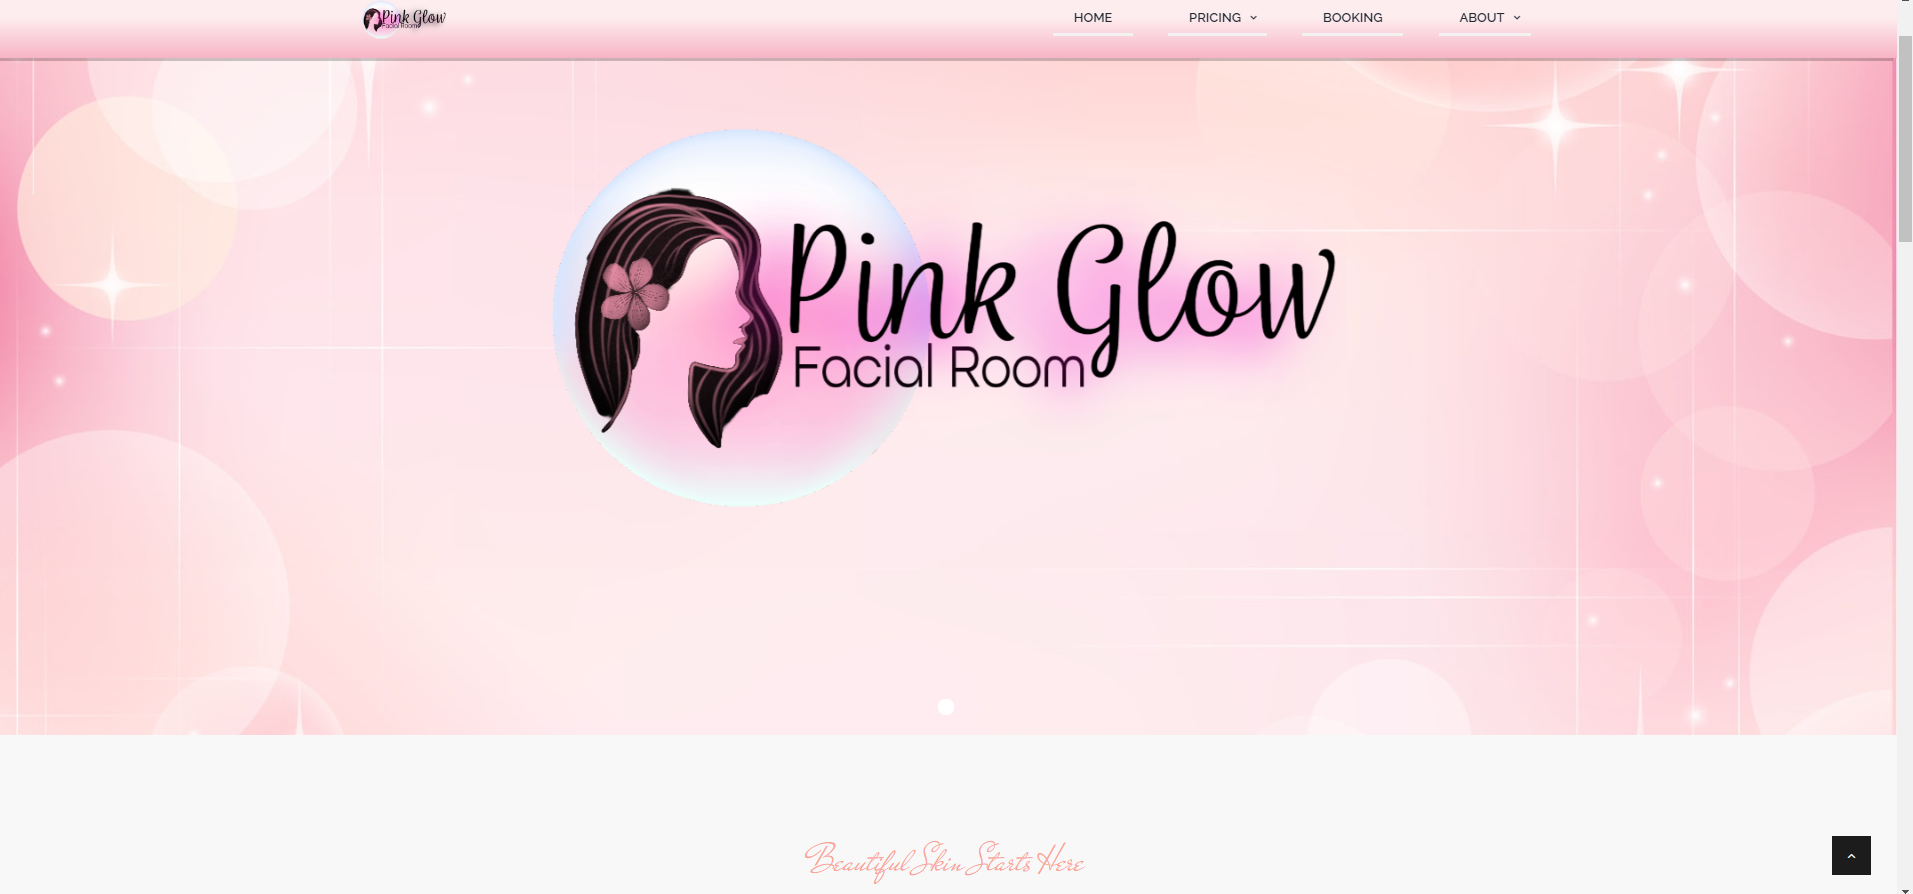
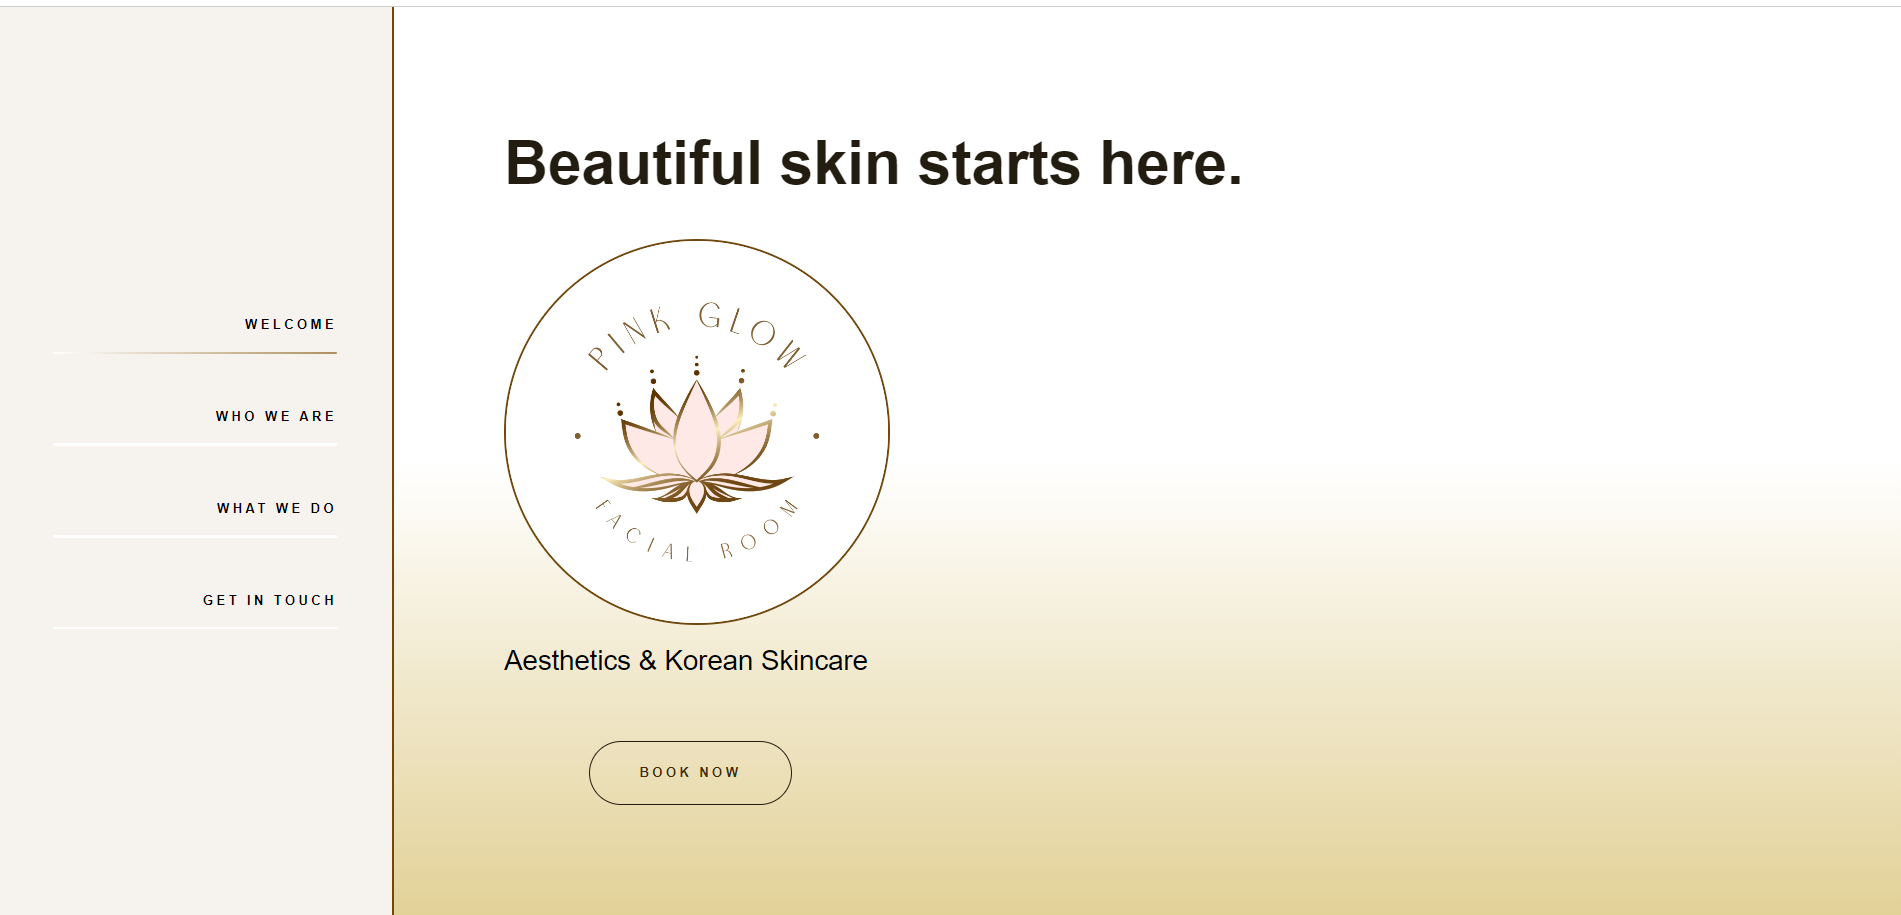
replaced pink glow photo

diff --git a/contact.html b/contact.html
@@ -61,7 +61,7 @@
         <section class="wrapper style4 special container medium">
           <!-- Content -->
           <div class="content">
-            <form>
+            <form netlify>
               <div class="row gtr-50">
                 <div class="col-6 col-12-mobile">
                   <input type="text" name="name" placeholder="Name" />
